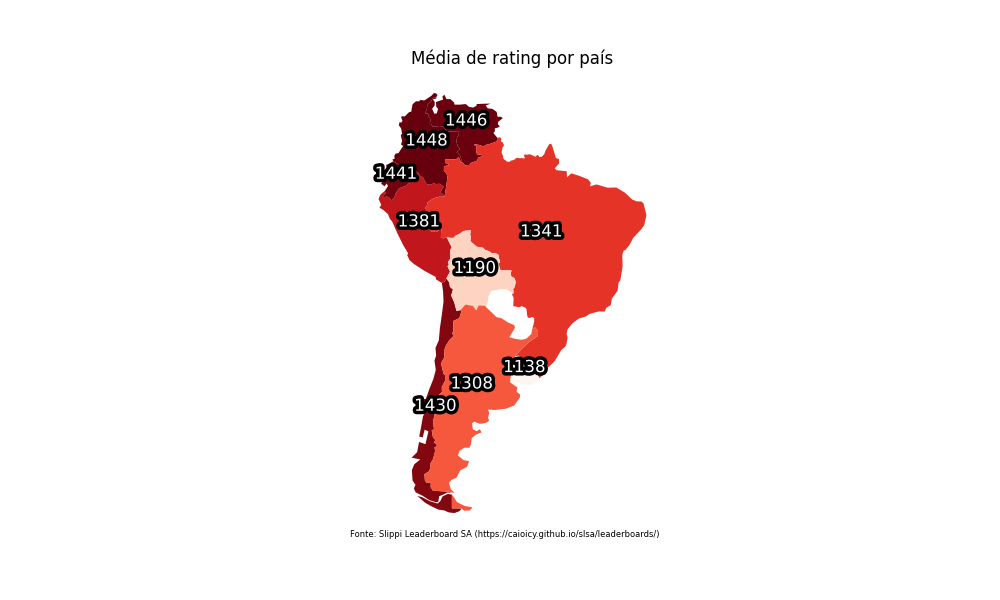
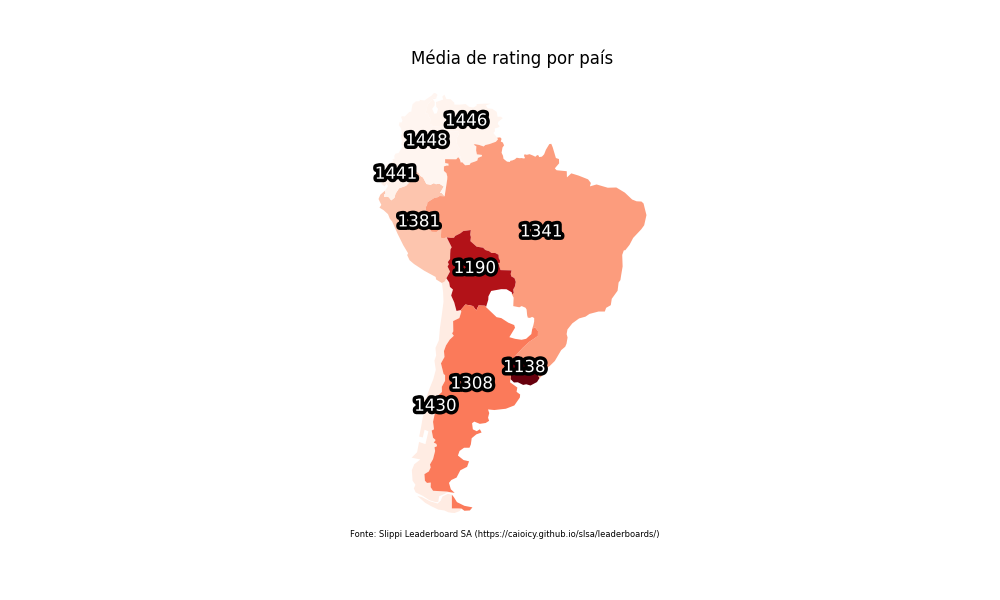
novas cores nos mapas

Changed region(s): [[0.372, 0.15, 0.651, 0.87]]

diff --git a/data_scraping.py b/data_scraping.py
@@ -313,7 +313,9 @@ merged_df = pd.merge(dados_paises, world, left_on='countrycode', right_on='iso_a
 
 geomapa = gpd.GeoDataFrame(merged_df, geometry='geometry')
 
-cmap = 'Reds'
+cmap = 'Greens'
+cmap2 = 'Reds_r'
+
 x_min, x_max = -90, -30  
 y_min, y_max = -60, 10  
 geomapa_americadosul = geomapa.cx[x_min:x_max, y_min:y_max]
@@ -337,7 +339,7 @@ fig.savefig('mapa_jogadores.png')
 
 geomapa_americaavg = geomapa.cx[x_min:x_max, y_min:y_max]
 fig2, ax = plt.subplots(1, 1, figsize=(10, 6))
-geomapa_americaavg.plot(column='avg_rating', cmap=cmap, legend=False, ax=ax)
+geomapa_americaavg.plot(column='avg_rating', cmap=cmap2, legend=False, ax=ax)
 
 for index, row in geomapa_americaavg.iterrows():
     avg_rating = round(row['avg_rating'])  # Arredonda o valor da média de rating
@@ -347,7 +349,6 @@ for index, row in geomapa_americaavg.iterrows():
     ax.annotate(text=text, xy=(x, y), fontsize=12, ha='center', color='white', path_effects=text_effect)
 
 ax.set_title('Média de rating por país')
-
 ax.set_axis_off()
 ax.text(1, -0.01, 'Fonte: Slippi Leaderboard SA (https://caioicy.github.io/slsa/leaderboards/)',
         verticalalignment='bottom', horizontalalignment='right',
